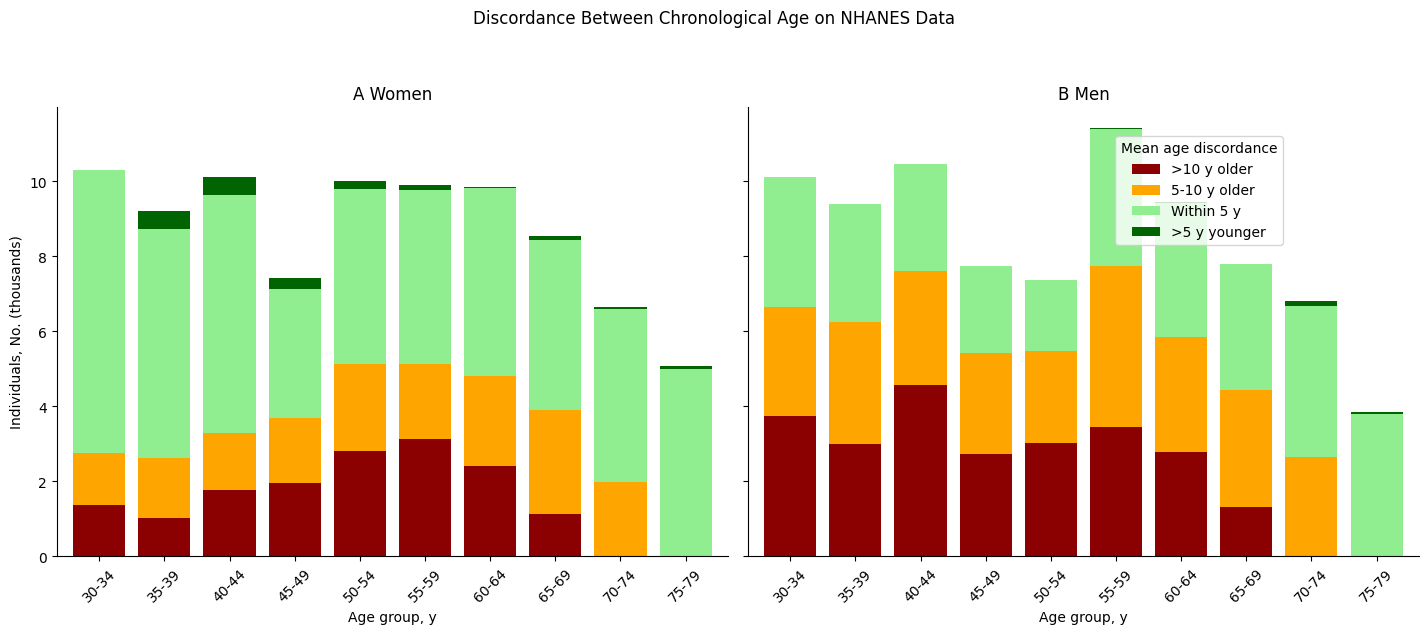
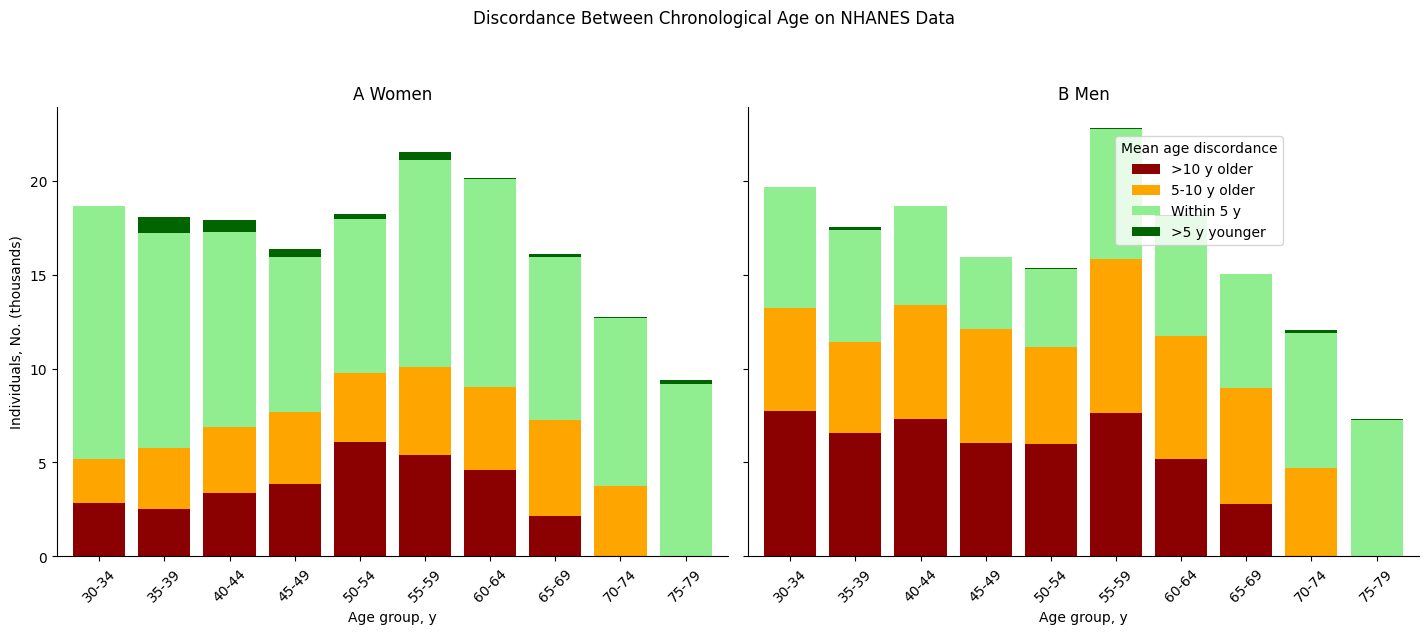
Use three cycles data

diff --git a/heart_age_analysis.py b/heart_age_analysis.py
@@ -36,17 +36,31 @@ except ImportError:
 from app.services.heart_age_service import Profile, prevent_heart_age, prevent_ascvd_risk_10y_base
 
 def load_and_merge_data(data_path: Path):
-    """Loads and merges the necessary NHANES data files."""
+    """Loads and merges the necessary NHANES data files for a specific cycle."""
+    
+    year_config = {
+        '2021-2023': {'suffix': '_L', 'bpx_file': 'BPXO_L.csv', 'weight_col': 'wtmec2yr'},
+        '2017-2018': {'suffix': '_J', 'bpx_file': 'BPXO_J.csv', 'weight_col': 'wtmec2yr'},
+        '2015-2016': {'suffix': '_I', 'bpx_file': 'BPX_I.csv', 'weight_col': 'wtmec2yr'},
+    }
+    
+    year = data_path.name
+    config = year_config.get(year)
+    if not config:
+        print(f"Warning: No configuration found for {year}. Skipping.")
+        return None
+        
+    suffix = config['suffix']
     
     datasets = {
-        "demo": ("DEMO_L.csv", ["seqn", "riagendr", "ridageyr", "wtmec2yr"]),
-        "bpx": ("BPXO_L.csv", ["seqn", "bpxosy1", "bpxosy2", "bpxosy3"]),
-        "bpq": ("BPQ_L.csv", ["seqn", "bpq150", "bpq101d"]),
-        "tchol": ("TCHOL_L.csv", ["seqn", "lbxtc"]),
-        "hdl": ("HDL_L.csv", ["seqn", "lbdhdd"]),
-        "diq": ("DIQ_L.csv", ["seqn", "diq010"]),
-        "smq": ("SMQ_L.csv", ["seqn", "smq040"]),
-        "biopro": ("BIOPRO_L.csv", ["seqn", "lbxscr"]),
+        "demo": (f"DEMO{suffix}.csv", ["seqn", "riagendr", "ridageyr", config['weight_col']]),
+        "bpx": (config['bpx_file'], ["seqn", "bpxosy1", "bpxosy2", "bpxosy3"]),
+        "bpq": (f"BPQ{suffix}.csv", ["seqn", "bpq150", "bpq101d"]),
+        "tchol": (f"TCHOL{suffix}.csv", ["seqn", "lbxtc"]),
+        "hdl": (f"HDL{suffix}.csv", ["seqn", "lbdhdd"]),
+        "diq": (f"DIQ{suffix}.csv", ["seqn", "diq010"]),
+        "smq": (f"SMQ{suffix}.csv", ["seqn", "smq040"]),
+        "biopro": (f"BIOPRO{suffix}.csv", ["seqn", "lbxscr"]),
     }
     
     df_merged = None
@@ -66,6 +80,7 @@ def load_and_merge_data(data_path: Path):
         except ValueError as e:
             print(f"Warning: Could not read {filename}. Error: {e}. Skipping.")
 
+    df_merged['cycle'] = year
     return df_merged
 
 def preprocess_data(df: pd.DataFrame):
@@ -130,7 +145,8 @@ def preprocess_data(df: pd.DataFrame):
         'statin': 'statin',
         't2dm': 't2dm',
         'smoking': 'smoking',
-        'egfr': 'egfr'
+        'egfr': 'egfr',
+        'cycle': 'cycle'
     }
     df_final = df[list(final_cols.keys())].rename(columns=final_cols)
     
@@ -245,13 +261,27 @@ def main():
     # Get the directory of the current script.
     script_dir = Path(__file__).parent
     # Path to the data directory, assuming it's a sibling of the script's directory.
-    data_path = script_dir / 'data' / '2021-2023'
+    data_root = script_dir / 'data'
     
-    df_merged = load_and_merge_data(data_path)
+    year_dirs = ['2021-2023', '2017-2018', '2015-2016']
     
-    if df_merged is not None:
-        print("Data loaded and merged successfully.")
-        df_processed = preprocess_data(df_merged)
+    all_dfs = []
+    for year_dir in year_dirs:
+        data_path = data_root / year_dir
+        print(f"Processing data for {year_dir}...")
+        df_merged = load_and_merge_data(data_path)
+        if df_merged is not None:
+            all_dfs.append(df_merged)
+
+    if not all_dfs:
+        print("No data was loaded. Exiting.")
+        return
+
+    df_combined = pd.concat(all_dfs, ignore_index=True)
+
+    if df_combined is not None:
+        print("All data loaded and merged successfully.")
+        df_processed = preprocess_data(df_combined)
         print("Data preprocessed successfully.")
         
         df_with_heart_age = calculate_heart_ages(df_processed)
